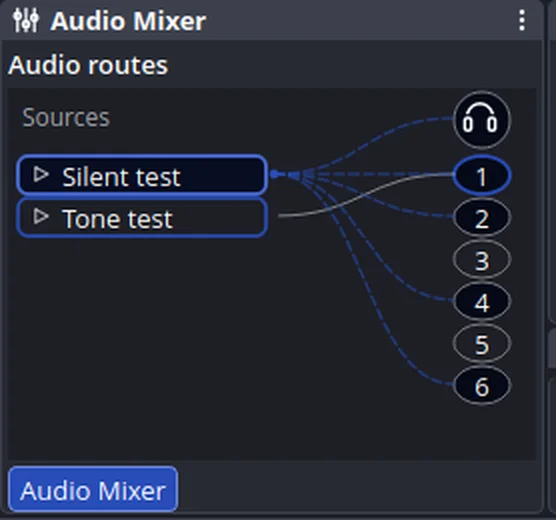
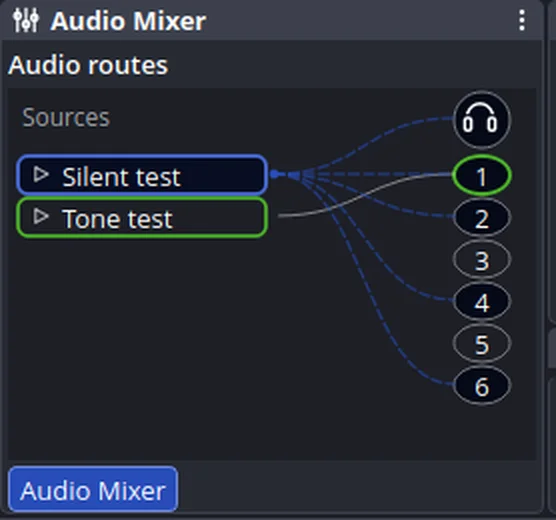
Distinguish selected and active AudioBus nodes with single colored outlines

Changed region(s): [[0.0, 0.3692, 0.4892, 0.4615], [0.795, 0.2769, 0.9173, 0.4]]

diff --git a/src/audio-patchbay.cpp b/src/audio-patchbay.cpp
@@ -44,6 +44,25 @@ AudioPatchbay::ActivityState AudioPatchbay::activityForSource(const RouteSource 
     if(!src.audioActive||!src.signalKnown)return ActivityState::Unknown;
     return src.signalActive?ActivityState::Active:ActivityState::Silent;
 }
+namespace {
+QColor activeOutlineColor(const QPalette &theme){
+    QColor active=theme.color(QPalette::Highlight);
+    const QColor selected=theme.color(QPalette::Link);
+    const int selectedHue=selected.hsvHue();
+    const int activeHue=active.hsvHue();
+    // Themes can define Link and Highlight as nearly identical blues.
+    // Preserve their roles, but derive a contrasting active hue if so:
+    // in Colorway this makes selected blue and activity green. Keep the
+    // theme's brightness/alpha instead of hardcoding a green RGB.
+    const int difference=qAbs(selectedHue-activeHue);
+    if(selectedHue<0||activeHue<0||qMin(difference,360-difference)<65){
+        const int hue=selectedHue>=0?(selectedHue+240)%360:125;
+        active.setHsv(hue,qMax(150,active.hsvSaturation()),
+                      qMax(155,active.value()),active.alpha());
+    }
+    return active;
+}
+}
 class AudioPatchbay::Canvas final : public QWidget {
     static constexpr int firstY=43;
     static constexpr int monitorTarget=7;
@@ -202,6 +221,7 @@ protected:
         p.setRenderHint(QPainter::Antialiasing);
         const auto fg=palette().color(QPalette::Text);
         const auto accent=palette().color(QPalette::Highlight);
+        const auto activeColor=activeOutlineColor(palette());
         const auto muted=palette().color(QPalette::Mid);
         const auto caption=paletteBlend(muted,fg,60); // readable on dark and light themes
         const auto base=palette().color(QPalette::Button);
@@ -228,7 +248,7 @@ protected:
             const bool live=outputActivity(t)==ActivityState::Active;
             const QColor inactive=paletteBlend(muted,fg,43);
             const QColor hovered=paletteBlend(muted,fg,68);
-            p.setPen(QPen(live?accent:(hoveredTarget==t?hovered:inactive),
+            p.setPen(QPen(live?activeColor:(hoveredTarget==t?hovered:inactive),
                           live?1.85:(hoveredTarget==t?1.3:0.95)));
             p.setBrush(connected?paletteBlend(base,accent,13):base);
             p.drawEllipse(rect);
@@ -288,26 +308,19 @@ protected:
             const bool current=src.id==selected;
             const auto rect=sourceRect(i);
             const bool focused=src.id==focusedSource();
-            // Selection is a separate, persistent state from measured
-            // activity: use the theme's Link color for its outer outline,
-            // and the theme Highlight for live signal. A selected/live node
-            // retains both (inner activity stroke). Neither hover nor a
-            // connected route can make a silent node look active.
+            // One outline per node, with distinct theme-derived colors:
+            // selected uses Link; unselected active uses Highlight.
+            // Selection takes precedence if both states apply.
             const bool live=AudioPatchbay::activityForSource(src)==ActivityState::Active;
             QColor selection=palette().color(QPalette::Link);
             if(selection==accent||selection==base)
                 selection=paletteBlend(accent,fg,50);
             const QColor inactive=paletteBlend(muted,fg,43);
             const QColor hovered=paletteBlend(muted,fg,68);
-            const QColor border=current?selection:(live?accent:(focused?hovered:inactive));
+            const QColor border=current?selection:(live?activeColor:(focused?hovered:inactive));
             p.setPen(QPen(border,current?1.8:(live?1.65:(focused?1.0:0.75))));
             p.setBrush(current?paletteBlend(base,accent,18):base);
             p.drawRoundedRect(rect,5,5);
-            if(current&&live){
-                p.setPen(QPen(accent,1.15));
-                p.setBrush(Qt::NoBrush);
-                p.drawRoundedRect(rect.adjusted(3,3,-3,-3),3,3);
-            }
             QFont sourceFont=bodyFont;
             sourceFont.setWeight(current?QFont::Medium:QFont::Normal);
             p.setFont(sourceFont);

diff --git a/tests/audio-patchbay-test.cpp b/tests/audio-patchbay-test.cpp
@@ -236,15 +236,27 @@ int main(int argc,char **argv){
  bay.refreshLevels();app.processEvents();
  auto after=canvas->grab().toImage();
  REQUIRE(before!=after);
- // The selected source keeps its distinct outer stroke; active signal adds
- // an inner highlight, without turning selection into an activity claim.
- REQUIRE(after.pixelColor(5,43)==before.pixelColor(5,43));
- REQUIRE(after.pixelColor(8,43)!=before.pixelColor(8,43));
+ // One outline per node: selected uses selection color, unselected
+ // active uses signal color. A selected+active source must NOT gain an
+ // inner/second border or change its selected outline when signal starts.
+ const QRect selectedNode(5,30,124,26);
+ REQUIRE(after.copy(selectedNode)==before.copy(selectedNode));
+ const auto selectedColor=after.pixelColor(5,43);
+ const auto activeColor=after.pixelColor(5,107);
+ REQUIRE(selectedColor!=activeColor);
+ // Different *hues*, not two slightly different blues in Colorway.
+ const int selectedHue=selectedColor.hsvHue();
+ const int activeHue=activeColor.hsvHue();
+ REQUIRE(selectedHue>=0&&activeHue>=0);
+ const int hueDifference=qAbs(selectedHue-activeHue);
+ REQUIRE(qMin(hueDifference,360-hueDifference)>=65);
  int sourceOutlinePixels=0,outputOutlinePixels=0,oldSourceDotPixels=0,
      oldOutputDotPixels=0,leftIconPixels=0;
  for(int y=38;y<=48;++y){
+     // Unselected Music has real signal: it gets the activity-color
+     // OUTLINE; selected Voice keeps its selection color.
      for(int x=5;x<=9;++x)
-         if(before.pixel(x,y)!=after.pixel(x,y))++sourceOutlinePixels;
+         if(before.pixel(x,y+64)!=after.pixel(x,y+64))++sourceOutlinePixels;
      for(int x=canvas->width()-41;x<=canvas->width()-37;++x)
          if(before.pixel(x,y)!=after.pixel(x,y))++outputOutlinePixels;
      for(int x=115;x<=124;++x)
@@ -322,6 +334,7 @@ int main(int argc,char **argv){
  const auto mutedBorder=canvas->grab().toImage();
  int mutedSourceOutline=0,mutedOutputOutline=0,mutedFormerDots=0;
  for(int y=38;y<=48;++y){
+     // Muted Voice stays selected: its single selection outline is stable.
      for(int x=5;x<=9;++x)
          if(activeBorder.pixel(x,y)!=mutedBorder.pixel(x,y))++mutedSourceOutline;
      for(int x=canvas->width()-41;x<=canvas->width()-37;++x)
@@ -331,7 +344,7 @@ int main(int argc,char **argv){
      for(int x=canvas->width()-12;x<=canvas->width()-4;++x)
          if(activeBorder.pixel(x,y)!=mutedBorder.pixel(x,y))++mutedFormerDots;
  }
- REQUIRE(mutedSourceOutline>0&&mutedOutputOutline>0);
+ REQUIRE(mutedSourceOutline==0&&mutedOutputOutline>0);
  REQUIRE(mutedFormerDots==0);
  REQUIRE(!bay.outputSignal(1)); // browser is silent, voice is muted
  REQUIRE(bay.outputSignal(7)); // Music is independently monitored and producing signal

diff --git a/README.md b/README.md
@@ -249,7 +249,7 @@ Enable **AudioBus alternate routing view** in **OBS Settings → Aftermarket →
 - **Click a source node to select it**, then click a numbered destination to toggle its route or drag the source to connect. Clicking an already-connected track toggles it off; repeating a drag never disconnects it. **Show all wires is enabled by default**, showing every source connection immediately. You can turn it off in the dock menu for a selected-only view. Hovering a source or output highlights related paths without modifying routing or hiding unrelated wires while the all-wires view is enabled.
 - **Routing display controls are in the Audio Mixer dock’s three-dot title menu, only while AudioBus is open:** **Show all wires** is a native checkable menu action that opens **checked by default**, and **Refresh audio routes** re-queries OBS immediately. Their separate checkbox and refresh button have been removed from the routing header. Reopening the menu preserves the wire toggle state, while normal automatic route/signal refresh continues. The menu, checked state, hover/focus presentation, fonts and refresh glyph honor OBS’s current Qt theme: the refresh shape comes from QStyle, tinted with the menu’s actual text palette rather than the desktop icon theme. Switching back to the original Audio Mixer hides the routing-only menu entries.
 - The six **circular output nodes** represent OBS's actual tracks 1–6. The separate circular **headphones node** represents OBS monitoring, not Track 7. **Left-click** the headphones to toggle Off / Monitor and Output for the selected source; **right-click** it for the three-mode menu (**Off / Monitor Only / Monitor and Output**). There is no bottom monitoring dropdown. Dragging to headphones preserves an existing Monitor Only connection and never rewrites track assignments. The selected source is identified by OBS UUID, not its potentially duplicated or renamed display name.
-- **Source selection has its own highlighted outline**, derived from the theme's Link color and distinct from the Highlight color for **measured active audio**. The selected source stays outlined even when silent or muted; a selected, active source displays **both** (selection perimeter and an inner activity stroke). Other inactive source cards and outputs have subdued borders; active output circles use the activity highlight. Selection never implies live audio. No separate status dots are used. Output activity aggregates the eligible routed sources and respects Monitor Only. Tooltips retain the distinction between silence, muted, and unknown states. The source-type icons remain on the left, and removing the dots makes extra room for longer source names. All highlights use the active OBS theme palette. A highlighted output **does not prove a physical playback device is audible**.
+- **One outline per node, two distinct colors:** selection is blue (the theme's Link role), and **measured active audio is green** when the theme's Highlight and Link colors would otherwise both be blue. Colors remain palette-derived, adapting to OBS themes. A selected source retains its blue outline whether silent or active; an **unselected active** source and active output circles use green. Selection takes precedence, without a second ring or activity dot. Inactive unselected nodes stay subdued. Output activity aggregates the eligible routed sources and respects Monitor Only. Tooltips retain the distinction between silence, muted, and unknown states. The source-type icons remain on the left, and removing the dots makes extra room for longer source names. All highlights use the active OBS theme palette. A highlighted output **does not prove a physical playback device is audible**.
 - The graph owns source selection and routing, so the **Outputs** heading, duplicate source selector, lower output-button row, bottom Monitor dropdown, and verbose stats are gone. Clicking or dragging to the circles keeps native OBS routing behavior; clicks on transparent square corners do not toggle a circle. In narrow docks the headphones stay pinned at the top. Hover previews and **Show all wires** continue working.
 
 ![AudioBus routing with active source cards and outputs highlighted by their outlines, without status dots](docs/screenshots/readme/audiohub-activity-outlines.webp)

diff --git a/ACTIVE_WORK.md b/ACTIVE_WORK.md
@@ -2307,3 +2307,46 @@ Verification:
 
 Boundary: existing live OBS needs restarting for the installed module to
 load. No remote push, release, source routing or audio data mutation.
+
+## Slice 51 — one clearly distinct outline color for selection vs audio activity (2026-11-23)
+
+Correction: the preceding AudioBus slice drew both an outer selected border
+and an inner active ring on selected+active sources, and the Colorway theme
+resolved Link and Highlight to visually similar shades of blue. The user
+wanted only two clearly different outline colors, not layered decorations.
+
+Implementation:
+- Each source still has exactly ONE outline. Selected wins and uses
+  QPalette::Link (blue in current OBS theme). Unselected sources with a
+  measured active signal use an activity color; outputs with live routed
+  audio use that same color. Inactive unselected sources/outputs stay neutral.
+- A small palette-aware helper keeps the normal QPalette::Highlight color
+  when its hue is already sufficiently distinct from Link. When Link and
+  Highlight resolve to nearly the same hue, derive a contrasting active
+  hue from Link by rotating the hue; retain theme-derived brightness/alpha.
+  In Colorway this is blue for selection and green for audio activity.
+- Removed the separate inner active ring on selected+active sources.
+  The selected border remains stable regardless of measured signal. Did
+  not alter cable visibility, target routes, status readings, or Show all
+  wires default (still on). No separate dots or new UI elements.
+
+Verification:
+- TDD RED: updated test rejects the inner stroke, requires stable selected
+  source pixels after its signal becomes active, verifies mute does not
+  alter selected border, verifies unselected activity changes its outline,
+  and requires a minimum hue separation of 65 degrees, not just a change
+  of luminance between two blues. GREEN after one-outline change and hue
+  contrast fallback. Existing Qt palette and routing tests still pass.
+- Real isolated OBS 32.2.0 with Tone test and Silent test, compiled module
+  confirmed loaded at the sandbox path. Selected Silent test outline RGB
+  (68,100,199) is blue; active Tone test outline RGB (68,158,39)
+  is green; active Track 1 circle uses green. Screenshot refreshed at
+  docs/screenshots/readme/audiohub-activity-outlines.webp.
+- Full build clean (no warnings), 24/24 serial CTests pass,
+  git diff --check clean. Byte-identical module installed with SHA256
[1 lines of base64/hex data omitted]
+  at ~/.config/obs-studio/plugins/obs-ui-augment/bin/64bit/obs-ui-augment.so.
+  Old installed .so backed up to
+  ~/.local/share/aftermarket/rollback/obs-ui-augment.pre-single-colored-outlines.ea5984764cc9.so.
+  User OBS was not running at install. Four tracked user config files
+  unchanged. No GitHub push or unrelated changes.
